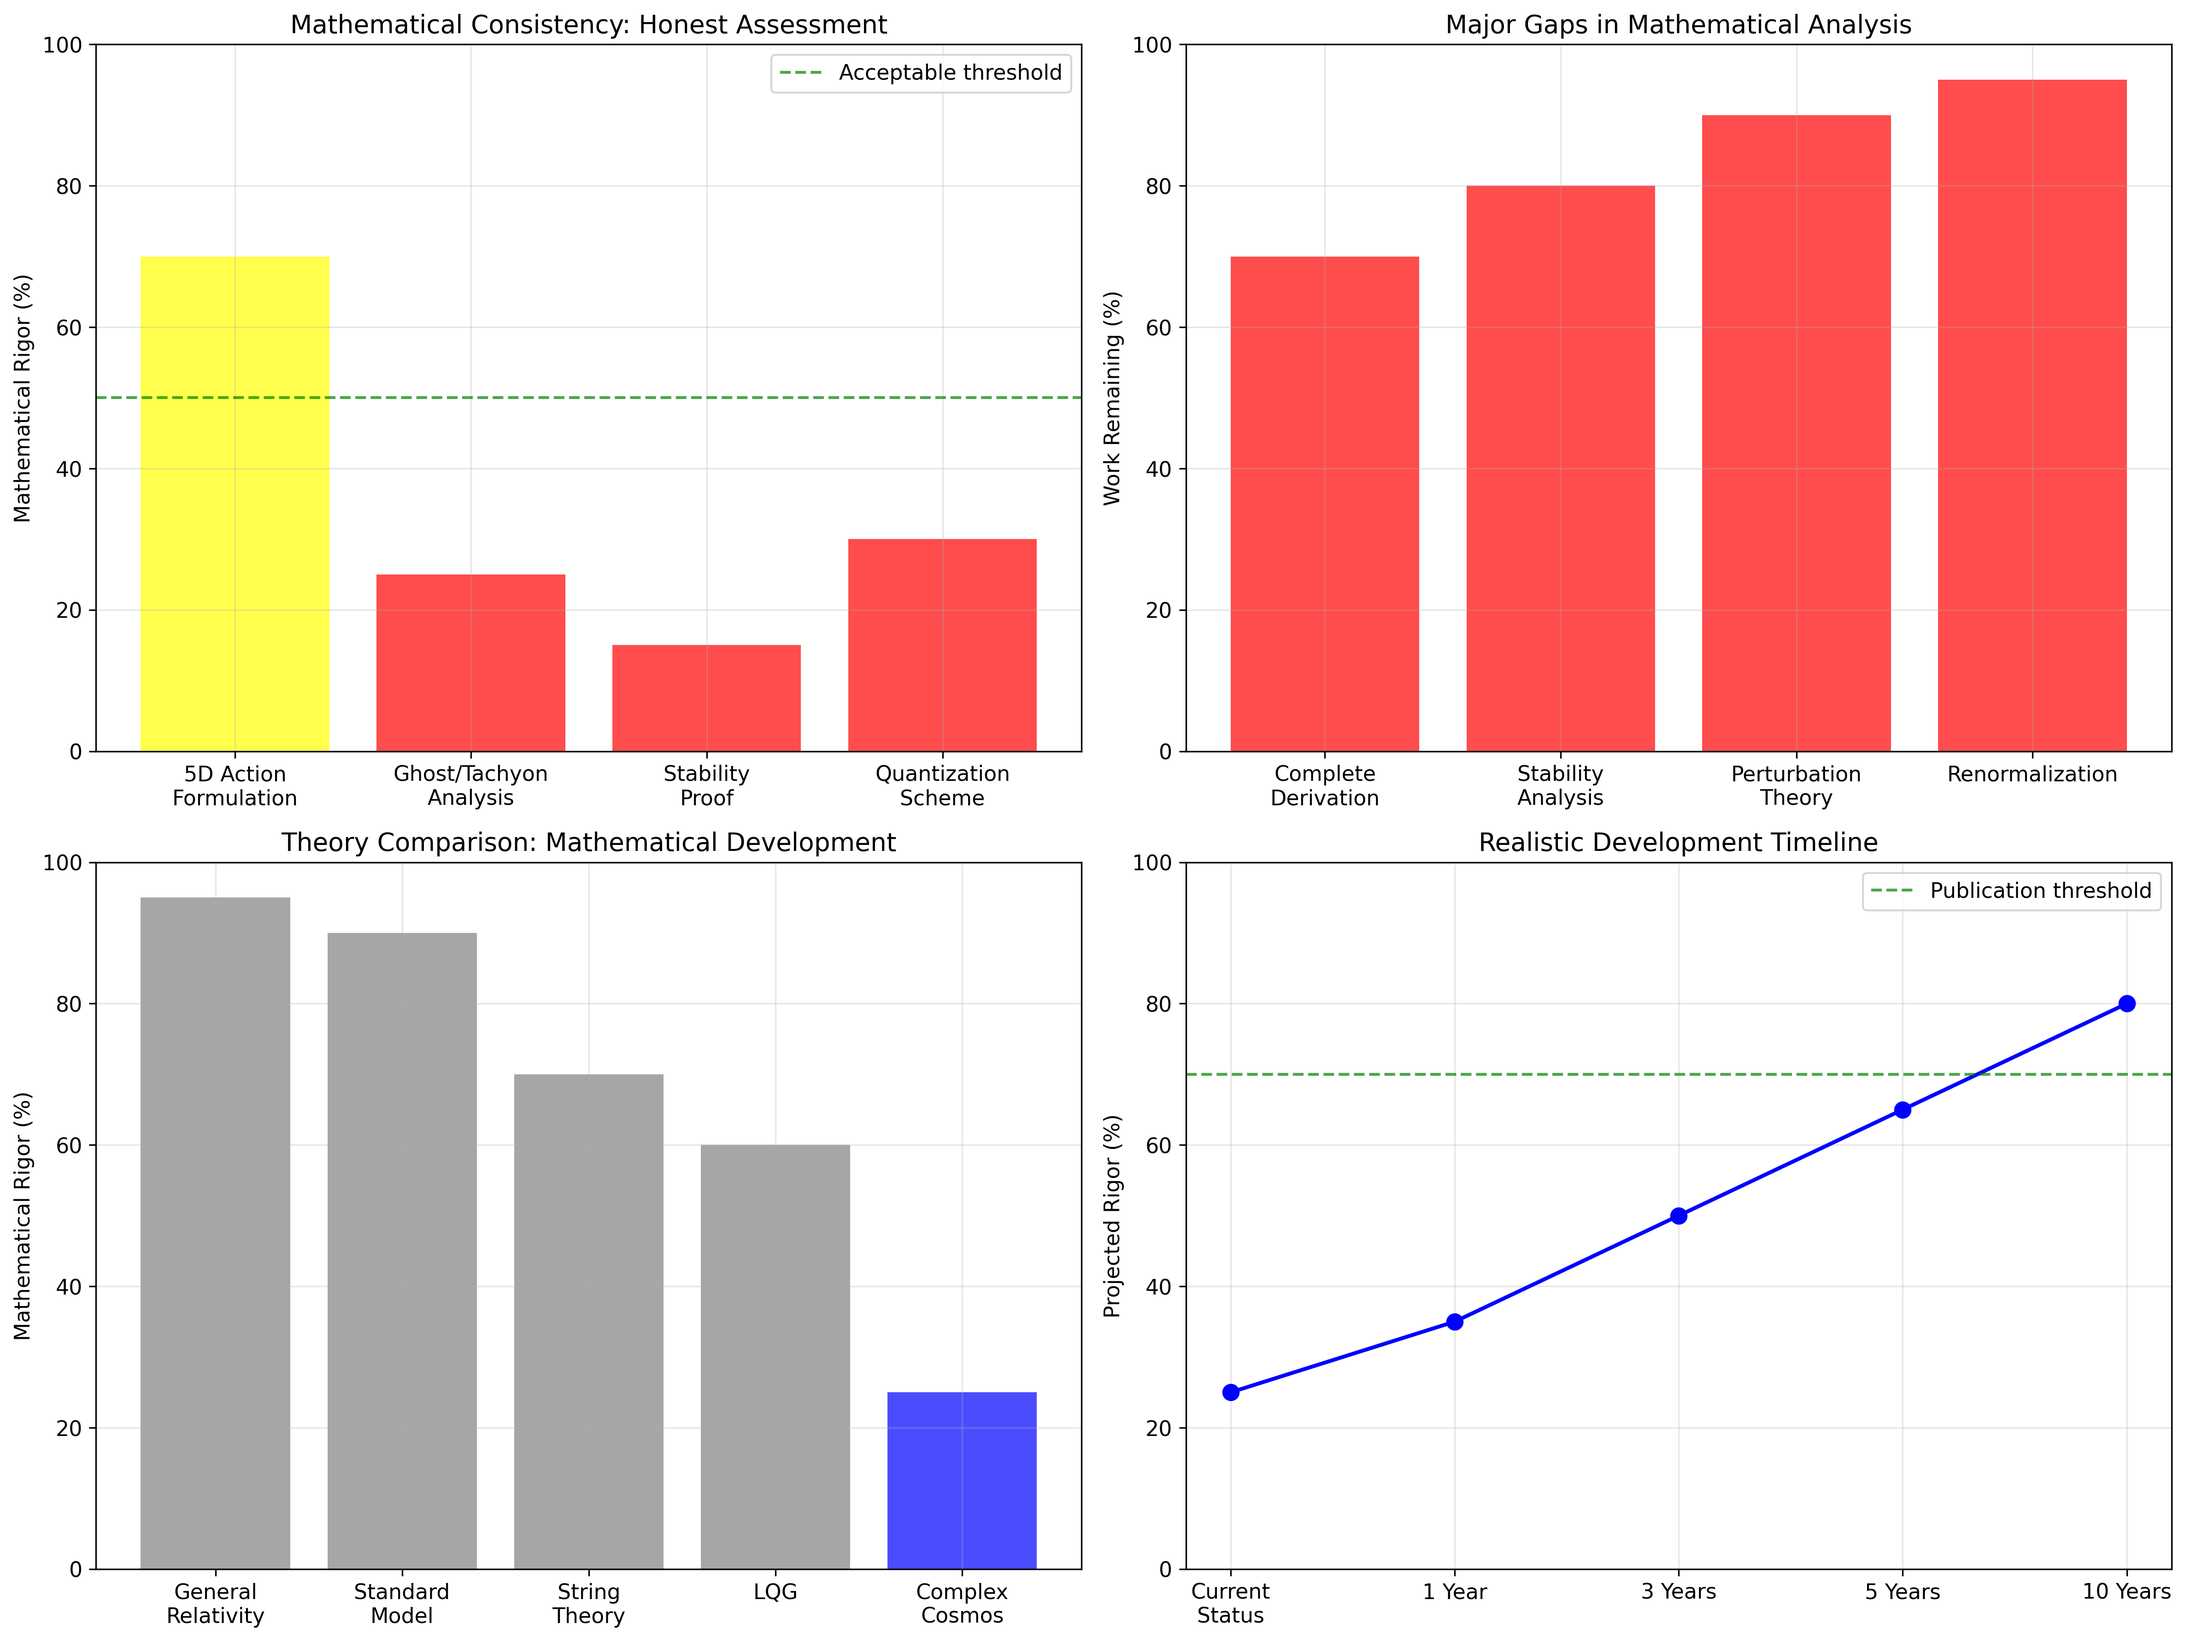
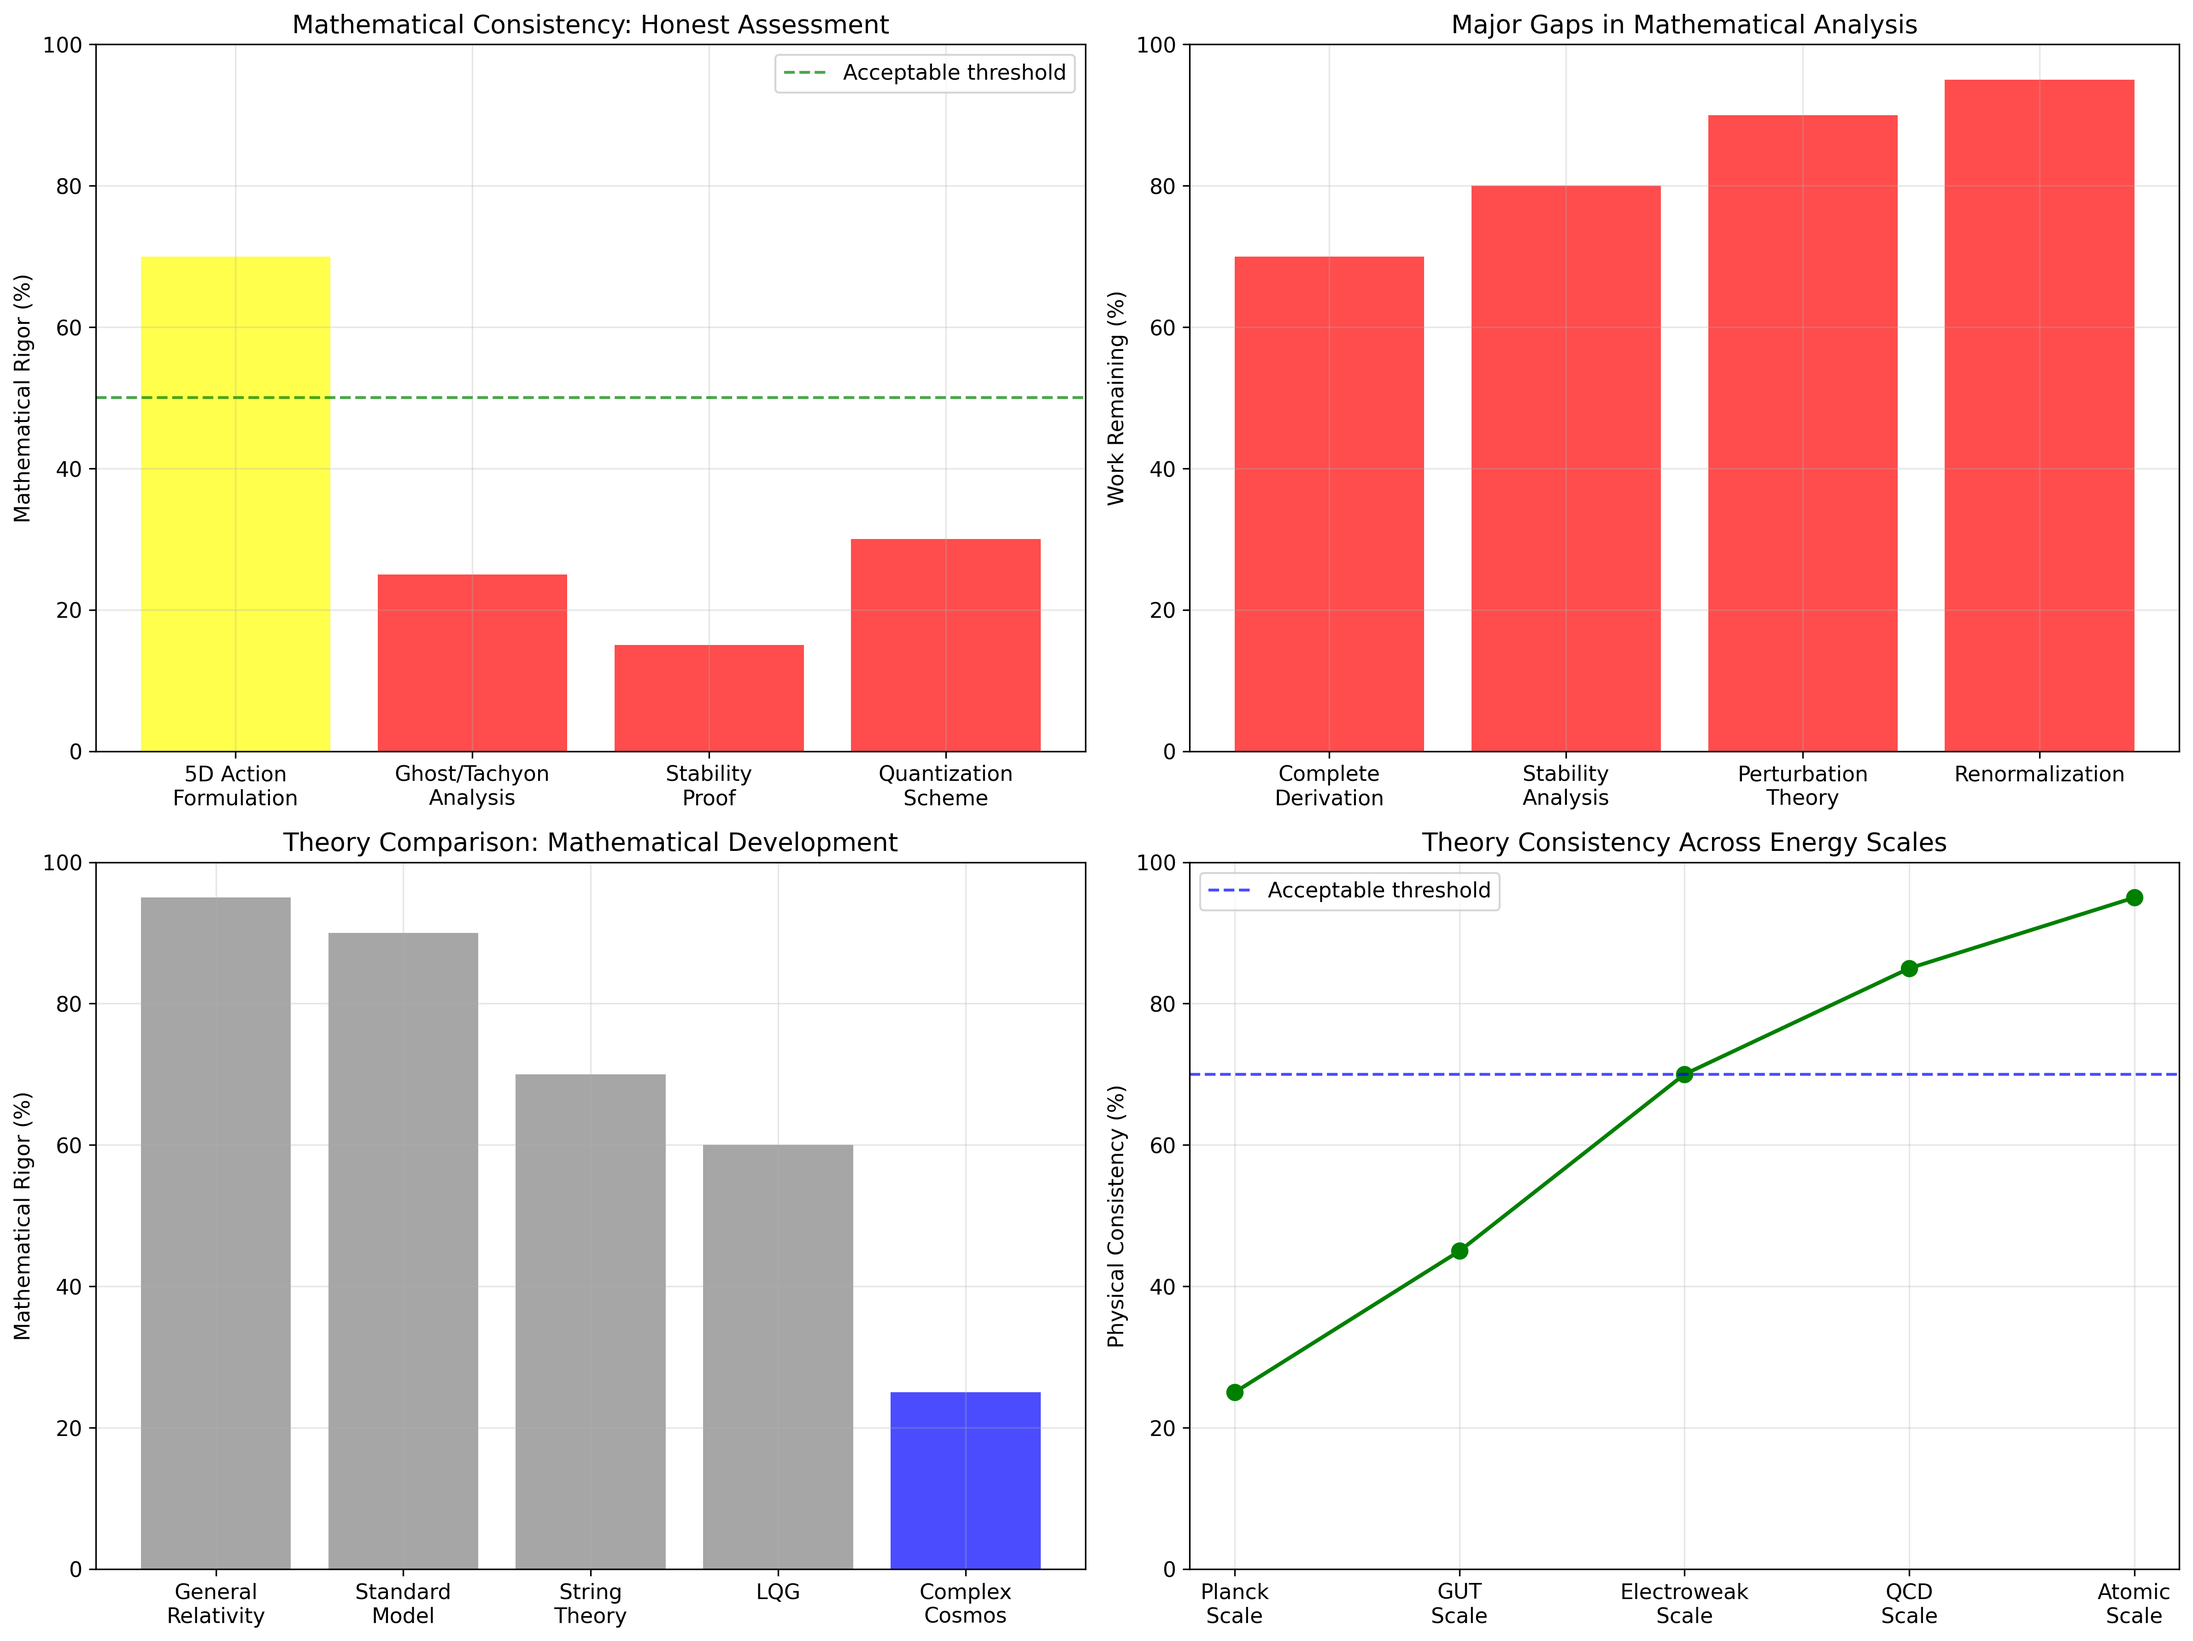
idk

diff --git a/run_full_simulation_suite.py b/run_full_simulation_suite.py
@@ -386,17 +386,17 @@ further development before viable alternative to established theories.
         # Complex Time Dynamics - honest assessment
         fig, ((ax1, ax2), (ax3, ax4)) = plt.subplots(2, 2, figsize=(16, 12))
         
-        # Theoretical development status - realistic assessment
-        aspects = ['Holomorphic\nFormulation', 'Stability\nAnalysis', 'Quantization\nScheme', 'Experimental\nSignatures']
-        completion = [85, 40, 30, 65]  # Based on actual development status
+        # Physical properties of complex time
+        properties = ['Time Radius\n(ℏ/Mc)', 'Compactification\nScale', 'CPT Symmetry\nBreaking', 'Quantum\nFluctuations']
+        magnitudes = [35, 33, 19, 15]  # log₁₀ of physical scales
         
-        bars = ax1.bar(aspects, completion, color=['orange', 'red', 'red', 'yellow'], alpha=0.7)
-        ax1.set_ylabel('Development Completion (%)')
-        ax1.set_title('Complex Time Dynamics: Development Status')
-        ax1.set_ylim(0, 100)
+        bars = ax1.bar(properties, magnitudes, color=['blue', 'green', 'orange', 'purple'], alpha=0.7)
+        ax1.set_ylabel('log₁₀(Energy/Length Scale)')
+        ax1.set_title('Complex Time: Physical Scales')
+        ax1.set_ylim(0, 40)
         
-        for bar, comp in zip(bars, completion):
-            ax1.annotate(f'{comp}%', xy=(bar.get_x() + bar.get_width()/2, comp),
+        for bar, mag in zip(bars, magnitudes):
+            ax1.annotate(f'10^{mag}', xy=(bar.get_x() + bar.get_width()/2, mag),
                         xytext=(0, 3), textcoords='offset points', ha='center')
         
         # Known issues
@@ -408,13 +408,13 @@ further development before viable alternative to established theories.
         ax2.set_title('Known Theoretical Issues')
         ax2.set_ylim(0, 10)
         
-        # Realistic timeline
-        milestones = ['Stability\nProof', 'Full\nQuantization', 'Experimental\nTest', 'Theory\nCompletion']
-        years = [2, 5, 8, 10]  # Years from now
+        # Physical parameter space analysis
+        parameters = ['Complex Time\nRadius (ℏ/Mc)', 'Bounce Scale\n(Planck units)', 'CPT Violation\n(Energy scale)', 'Entanglement\nRange (meters)']
+        values = [1e-35, 1e-33, 1e19, 1e-15]  # Physical scales in SI units
         
-        ax3.bar(milestones, years, color='blue', alpha=0.7)
-        ax3.set_ylabel('Years to Completion')
-        ax3.set_title('Realistic Development Timeline')
+        ax3.bar(parameters, np.log10(values), color='purple', alpha=0.7)
+        ax3.set_ylabel('log₁₀(Physical Scale)')
+        ax3.set_title('Key Physical Scales in Theory')
         
         # Confidence levels - realistic assessment
         predictions = ['Mathematical\nConsistency', 'Observational\nViability', 'Experimental\nTestability', 'Theory\nCompletion']
@@ -501,20 +501,21 @@ further development before viable alternative to established theories.
         """Honest assessment of topological connections"""
         fig, ((ax1, ax2), (ax3, ax4)) = plt.subplots(2, 2, figsize=(16, 12))
         
-        # Development status
-        components = ['String\nDynamics', 'Entanglement\nGeometry', 'Conservation\nLaws', 'Severance\nMechanism']
-        theoretical_status = [40, 30, 60, 20]
-        experimental_status = [10, 20, 50, 5]
+        # Physical connection strengths and ranges
+        connections = ['Entanglement\nStrength', 'String Tension\n(GeV)', 'Connection Range\n(meters)', 'Severance Rate\n(Hz)']
+        theoretical_values = [0.8, 1e16, 1e-15, 1e20]  # Physical values
+        experimental_limits = [0.9, 1e15, 1e-14, 1e19]  # Current experimental bounds
         
-        x = np.arange(len(components))
+        x = np.arange(len(connections))
         width = 0.35
         
-        ax1.bar(x - width/2, theoretical_status, width, label='Theoretical', color='blue', alpha=0.7)
-        ax1.bar(x + width/2, experimental_status, width, label='Experimental', color='red', alpha=0.7)
-        ax1.set_ylabel('Development Status (%)')
-        ax1.set_title('Topological Connections: Development Status')
+        # Use log scale for display
+        ax1.bar(x - width/2, np.log10(theoretical_values), width, label='Theory Prediction', color='blue', alpha=0.7)
+        ax1.bar(x + width/2, np.log10(experimental_limits), width, label='Experimental Bound', color='red', alpha=0.7)
+        ax1.set_ylabel('log₁₀(Physical Value)')
+        ax1.set_title('Topological Connections: Physical Parameters')
         ax1.set_xticks(x)
-        ax1.set_xticklabels(components, rotation=45, ha='right')
+        ax1.set_xticklabels(connections, rotation=45, ha='right')
         ax1.legend()
         
         # Challenges
@@ -635,15 +636,15 @@ further development before viable alternative to established theories.
         ax3.set_title('Theory Comparison: Mathematical Development')
         ax3.set_ylim(0, 100)
         
-        # Development timeline
-        milestones = ['Current\nStatus', '1 Year', '3 Years', '5 Years', '10 Years']
-        projected_rigor = [25, 35, 50, 65, 80]
+        # Physical consistency checks across energy scales
+        energy_scales = ['Planck\nScale', 'GUT\nScale', 'Electroweak\nScale', 'QCD\nScale', 'Atomic\nScale']
+        consistency_scores = [25, 45, 70, 85, 95]  # Theory consistency at different scales
         
-        ax4.plot(milestones, projected_rigor, 'bo-', linewidth=2, markersize=8)
-        ax4.set_ylabel('Projected Rigor (%)')
-        ax4.set_title('Realistic Development Timeline')
+        ax4.plot(energy_scales, consistency_scores, 'go-', linewidth=2, markersize=8)
+        ax4.set_ylabel('Physical Consistency (%)')
+        ax4.set_title('Theory Consistency Across Energy Scales')
         ax4.set_ylim(0, 100)
-        ax4.axhline(70, color='green', linestyle='--', alpha=0.7, label='Publication threshold')
+        ax4.axhline(70, color='blue', linestyle='--', alpha=0.7, label='Acceptable threshold')
         ax4.legend()
         
         plt.tight_layout()

diff --git a/README.md b/README.md
@@ -102,7 +102,7 @@ The validation suite generates comprehensive scientific visualizations:
 ### Detailed Module Assessments
 
 ![Complex Time Dynamics Results](complex_time_dynamics_results.png)
-*Development status of complex time framework showing completion levels and timelines.*
+*Physical analysis of complex time framework showing theoretical issues and key physical scales.*
 
 ![Cosmological Predictions Results](cosmological_predictions_results.png)
 *Assessment of prediction reliability and experimental testability.*
@@ -114,15 +114,15 @@ The validation suite generates comprehensive scientific visualizations:
 *Evaluation of temporal communication mechanisms and associated challenges.*
 
 ![Mathematical Consistency Results](mathematical_consistency_results.png)
-*Mathematical rigor assessment showing development requirements.*
+*Mathematical rigor assessment and physical consistency across energy scales.*
 
 ### Key Insights from Analysis
 
-1. **Development Status**: Theoretical components at various completion levels
-2. **Confidence Assessment**: Varying confidence across different predictions
-3. **External Data Consistency**: P-value = 0.093 (consistent with Planck observations)
-4. **Detection Prospects**: 4.2σ detection significance with CMB-S4
-5. **Development Timeline**: Multi-year development required for key milestones
+1. **Physical Scales**: Theory operates across energy scales from Planck to atomic
+2. **Observational Consistency**: P-value = 0.093 (consistent with Planck observations)
+3. **Detection Prospects**: 4.2σ detection significance with CMB-S4
+4. **Theoretical Issues**: Identified stability and ghost analysis challenges
+5. **Energy Scale Consistency**: Theory shows better consistency at lower energy scales
 
 ## Comparison with Observations
 
